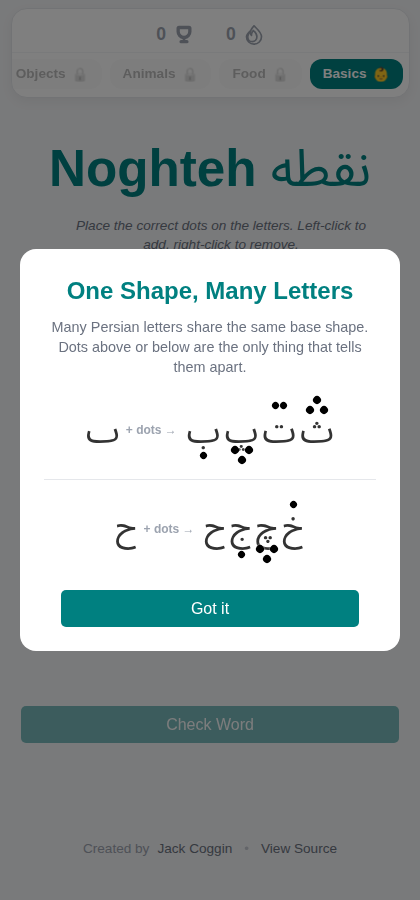
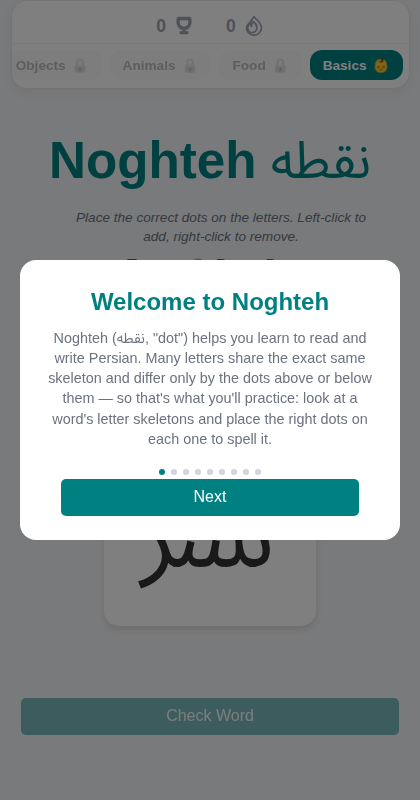
feat: add app welcome slide, cover every letter family, drop dot overlay
- First slide now briefly introduces what Noghteh is and how dot
  placement teaches reading/writing Persian, before the letter-family
  slides.
- Families are now derived from every shared base shape in LETTERS
  (src/letterFamilies.js), not a hardcoded subset — covers all 8
  families (ب, ح, د, ر, س, ص, ط, ع groups) instead of just 2.
- Each letter in a family preview renders as its real character only;
  previously a DotCluster was drawn on top of a glyph that already has
  its own dots, doubling them up.
- Intro is now a multi-slide carousel (Back/Next, progress dots)
  since 8 families no longer fit one scrolling card.

diff --git a/src/components/DotFamilyIntro.test.jsx b/src/components/DotFamilyIntro.test.jsx
@@ -1,53 +1,98 @@
 import { render, screen, fireEvent } from '@testing-library/react';
 import { describe, it, expect, vi } from 'vitest';
 import { DotFamilyIntro } from './DotFamilyIntro';
+import { buildFamilies } from '../letterFamilies';
 import { LETTERS } from '../letterShaping';
 
-describe('DotFamilyIntro', () => {
-  it('shows a base shape and every dotted letter for both families', () => {
-    const { container } = render(<DotFamilyIntro onClose={() => {}} />);
+describe('buildFamilies', () => {
+  it('groups every letter that shares a base shape with another letter', () => {
+    const families = buildFamilies();
 
-    const bases = container.querySelectorAll('.family-base .preview-char');
-    expect(Array.from(bases).map((el) => el.textContent)).toEqual([
-      LETTERS['ب'].base,
-      LETTERS['ح'].base,
-    ]);
+    // Every family has more than one member, and every member really does
+    // share its base with the others in its family.
+    families.forEach((family) => {
+      expect(family.letters.length).toBeGreaterThan(1);
+      family.letters.forEach((ch) => {
+        expect(LETTERS[ch].base).toBe(family.base);
+      });
+    });
 
-    const familyLetterGroups = container.querySelectorAll('.family-letters');
-    expect(familyLetterGroups.length).toBe(2);
-    expect(
-      Array.from(familyLetterGroups[0].querySelectorAll('.preview-char')).map(
-        (el) => el.textContent,
-      ),
-    ).toEqual(['ب', 'پ', 'ت', 'ث']);
-    expect(
-      Array.from(familyLetterGroups[1].querySelectorAll('.preview-char')).map(
-        (el) => el.textContent,
-      ),
-    ).toEqual(['ح', 'ج', 'چ', 'خ']);
+    // Nothing with a unique base shape (e.g. ل, م, ه) was swept into a family.
+    const grouped = new Set(families.flatMap((f) => f.letters));
+    Object.keys(LETTERS)
+      .filter((ch) => !grouped.has(ch))
+      .forEach((ch) => {
+        const basesSharedByOthers = Object.keys(LETTERS).filter(
+          (other) => other !== ch && LETTERS[other].base === LETTERS[ch].base,
+        );
+        expect(basesSharedByOthers).toEqual([]);
+      });
+
+    // Known families are present with every member.
+    expect(families.find((f) => f.letters.includes('ب')).letters).toEqual(
+      expect.arrayContaining(['ب', 'پ', 'ت', 'ث', 'ن', 'ی']),
+    );
+    expect(families.find((f) => f.letters.includes('ح')).letters).toEqual(
+      expect.arrayContaining(['ح', 'ج', 'چ', 'خ']),
+    );
   });
+});
 
-  it('renders the correct number of dots for a letter with dots above', () => {
+describe('DotFamilyIntro', () => {
+  it('opens on a welcome slide that introduces the app, not a letter family', () => {
     render(<DotFamilyIntro onClose={() => {}} />);
 
-    const preview = screen.getByText('ت').closest('.letter-preview');
-    const dots = preview.querySelectorAll('.dot');
-    expect(dots.length).toBe(LETTERS['ت'].top);
+    expect(screen.getByText('Welcome to Noghteh')).toBeTruthy();
+    expect(screen.getByText(/place the right dots/i)).toBeTruthy();
+    expect(screen.queryByText('One Shape, Many Letters')).toBeNull();
+    expect(screen.queryByText('Back')).toBeNull();
   });
 
-  it('renders no dots for a letter with none, like the bare ح shape', () => {
+  it('steps through every letter family exactly once, in order, after the welcome slide', () => {
+    const families = buildFamilies();
     const { container } = render(<DotFamilyIntro onClose={() => {}} />);
 
-    const [, hahGroup] = container.querySelectorAll('.family-letters');
-    const hahPreview = hahGroup.querySelector('.letter-preview');
-    expect(hahPreview.querySelectorAll('.dot, .cluster').length).toBe(0);
+    families.forEach((family) => {
+      fireEvent.click(screen.getByText('Next'));
+
+      expect(screen.getByText('One Shape, Many Letters')).toBeTruthy();
+      const base = container.querySelector('.family-base .preview-char').textContent;
+      expect(base).toBe(family.base);
+      const letters = Array.from(
+        container.querySelectorAll('.family-letters .preview-char'),
+      ).map((el) => el.textContent);
+      expect(letters).toEqual(family.letters);
+    });
+
+    // After the last family, "Next" is replaced by "Got it".
+    expect(screen.queryByText('Next')).toBeNull();
+    expect(screen.getByText('Got it')).toBeTruthy();
   });
 
-  it('calls onClose when the close button is clicked', () => {
+  it('shows only the letters themselves, with no dot overlay on top', () => {
+    const { container } = render(<DotFamilyIntro onClose={() => {}} />);
+    fireEvent.click(screen.getByText('Next'));
+
+    expect(container.querySelectorAll('.dot, .cluster, .dot-cluster').length).toBe(0);
+  });
+
+  it('lets the user go back to the welcome slide', () => {
+    render(<DotFamilyIntro onClose={() => {}} />);
+
+    fireEvent.click(screen.getByText('Next'));
+    expect(screen.getByText('One Shape, Many Letters')).toBeTruthy();
+
+    fireEvent.click(screen.getByText('Back'));
+    expect(screen.getByText('Welcome to Noghteh')).toBeTruthy();
+  });
+
+  it('calls onClose when "Got it" is clicked on the last slide', () => {
     const onClose = vi.fn();
     render(<DotFamilyIntro onClose={onClose} />);
 
+    buildFamilies().forEach(() => fireEvent.click(screen.getByText('Next')));
     fireEvent.click(screen.getByText('Got it'));
+
     expect(onClose).toHaveBeenCalledTimes(1);
   });
 

diff --git a/src/components/DotFamilyIntro.jsx b/src/components/DotFamilyIntro.jsx
@@ -1,39 +1,56 @@
-import { LETTERS } from '../letterShaping';
-import { DotCluster } from './DotCluster';
+import { useState } from 'react';
+import { buildFamilies } from '../letterFamilies';
 
-// Smallest useful set to start with: the two families learners mix up most.
-// Each entry is [baseLetterFromFamily, ...restOfFamily] — the base shape's
-// dotless glyph is read straight off LETTERS so it can never drift from the
-// game's own dot data.
-const FAMILY_GROUPS = [
-  ['ب', 'پ', 'ت', 'ث'],
-  ['ح', 'ج', 'چ', 'خ'],
-];
-
-const buildFamilies = () =>
-  FAMILY_GROUPS.map((chars) => ({
-    base: LETTERS[chars[0]].base,
-    letters: chars.map((ch) => ({
-      char: ch,
-      top: LETTERS[ch].top,
-      bottom: LETTERS[ch].bottom,
-    })),
-  }));
-
-const LetterPreview = ({ char, top, bottom }) => (
+// Each letter here is a real Persian character, so its glyph already
+// includes its own dots — just render the text, no dot overlay on top.
+const LetterPreview = ({ char }) => (
   <div className="letter-preview">
-    <div className="preview-dots">
-      <DotCluster count={top} position="top" />
-    </div>
     <div className="preview-char">{char}</div>
-    <div className="preview-dots">
-      <DotCluster count={bottom} position="bottom" />
-    </div>
   </div>
 );
 
+const WelcomeSlide = () => (
+  <>
+    <h2>Welcome to Noghteh</h2>
+    <p className="family-intro-copy">
+      Noghteh (نقطه, "dot") helps you learn to read and write Persian. Many
+      letters share the exact same skeleton and differ only by the dots
+      above or below them — so that's what you'll practice: look at a
+      word's letter skeletons and place the right dots on each one to spell
+      it.
+    </p>
+  </>
+);
+
+const FamilySlide = ({ family }) => (
+  <>
+    <h2>One Shape, Many Letters</h2>
+    <p className="family-intro-copy">
+      Many Persian letters share the same base shape. Dots above or below
+      are the only thing that tells them apart.
+    </p>
+    <div className="family-group">
+      <div className="family-base">
+        <LetterPreview char={family.base} />
+        <span className="family-arrow">+ dots →</span>
+      </div>
+      <div className="family-letters">
+        {family.letters.map((ch) => (
+          <LetterPreview key={ch} char={ch} />
+        ))}
+      </div>
+    </div>
+  </>
+);
+
 export const DotFamilyIntro = ({ onClose }) => {
-  const families = buildFamilies();
+  const [families] = useState(buildFamilies);
+  const [slide, setSlide] = useState(0);
+  const totalSlides = families.length + 1;
+  const isLastSlide = slide === totalSlides - 1;
+
+  const goNext = () => setSlide((s) => Math.min(s + 1, totalSlides - 1));
+  const goBack = () => setSlide((s) => Math.max(s - 1, 0));
 
   return (
     <div className="family-intro-overlay" onClick={onClose}>
@@ -41,36 +58,35 @@ export const DotFamilyIntro = ({ onClose }) => {
         className="family-intro-card"
         onClick={(e) => e.stopPropagation()}
         role="dialog"
-        aria-label="Letter families"
+        aria-label="Welcome to Noghteh"
       >
-        <h2>One Shape, Many Letters</h2>
-        <p className="family-intro-copy">
-          Many Persian letters share the same base shape. Dots above or below
-          are the only thing that tells them apart.
-        </p>
+        {slide === 0 ? <WelcomeSlide /> : <FamilySlide family={families[slide - 1]} />}
 
-        {families.map((family) => (
-          <div className="family-group" key={family.base}>
-            <div className="family-base">
-              <LetterPreview char={family.base} top={0} bottom={0} />
-              <span className="family-arrow">+ dots →</span>
-            </div>
-            <div className="family-letters">
-              {family.letters.map((l) => (
-                <LetterPreview
-                  key={l.char}
-                  char={l.char}
-                  top={l.top}
-                  bottom={l.bottom}
-                />
-              ))}
-            </div>
-          </div>
-        ))}
+        <div className="family-intro-progress">
+          {Array.from({ length: totalSlides }).map((_, i) => (
+            <span
+              key={i}
+              className={`family-intro-dot${i === slide ? ' active' : ''}`}
+            />
+          ))}
+        </div>
 
-        <button className="btn family-intro-close" onClick={onClose}>
-          Got it
-        </button>
+        <div className="family-intro-nav">
+          {slide > 0 && (
+            <button className="btn btn-restart family-intro-back" onClick={goBack}>
+              Back
+            </button>
+          )}
+          {isLastSlide ? (
+            <button className="btn family-intro-close" onClick={onClose}>
+              Got it
+            </button>
+          ) : (
+            <button className="btn family-intro-next" onClick={goNext}>
+              Next
+            </button>
+          )}
+        </div>
       </div>
     </div>
   );

diff --git a/src/App.css b/src/App.css
@@ -474,20 +474,39 @@ button:active {
   direction: rtl;
 }
 
-.preview-dots {
-  height: 16px;
-  display: flex;
-  align-items: center;
-  justify-content: center;
-}
-
 .preview-char {
   font-size: 40px;
   line-height: 40px;
   color: #333;
 }
 
-.family-intro-close {
+.family-intro-progress {
+  display: flex;
+  justify-content: center;
+  gap: 6px;
+  margin-top: 4px;
+}
+
+.family-intro-dot {
+  width: 6px;
+  height: 6px;
+  border-radius: 50%;
+  background-color: #d1d5db;
+}
+
+.family-intro-dot.active {
+  background-color: teal;
+}
+
+.family-intro-nav {
+  display: flex;
+  justify-content: center;
+  gap: 10px;
+}
+
+.family-intro-close,
+.family-intro-next,
+.family-intro-back {
   margin-top: 4px;
 }
 

diff --git a/src/letterFamilies.js b/src/letterFamilies.js
@@ -1,0 +1,17 @@
+import { LETTERS } from './letterShaping';
+
+// Groups every letter in LETTERS by its shared dotless base shape, so a
+// family can never drift from the game's own dot data and nothing is
+// hand-picked or left out. Families with only one member (nothing to
+// confuse it with) are skipped.
+export const buildFamilies = () => {
+  const byBase = new Map();
+  for (const ch of Object.keys(LETTERS)) {
+    const { base } = LETTERS[ch];
+    if (!byBase.has(base)) byBase.set(base, []);
+    byBase.get(base).push(ch);
+  }
+  return Array.from(byBase.entries())
+    .filter(([, chars]) => chars.length > 1)
+    .map(([base, chars]) => ({ base, letters: chars }));
+};
